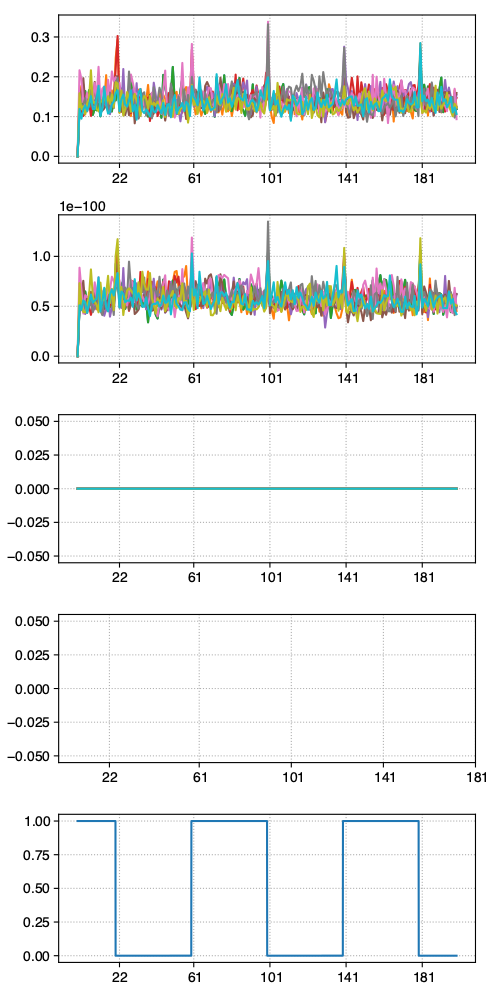
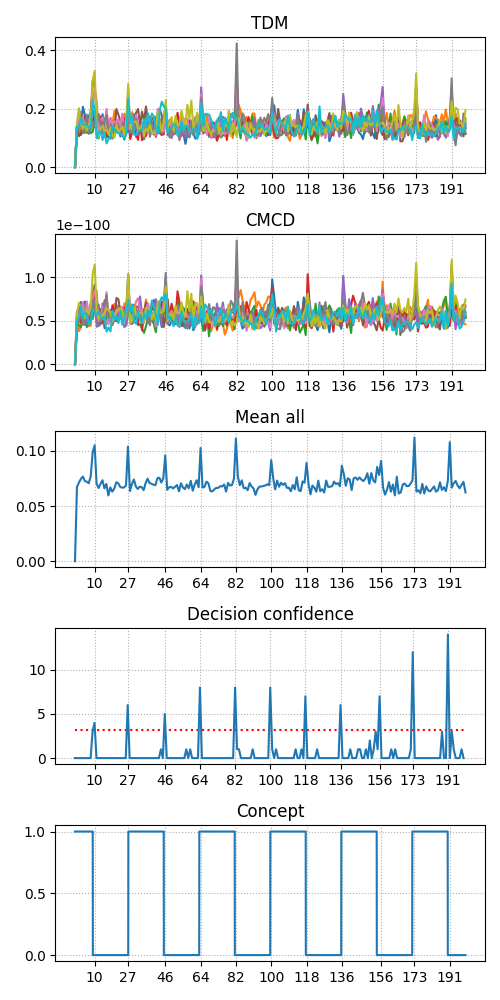
.

diff --git a/methods/ESDDM.py b/methods/ESDDM.py
@@ -1,7 +1,7 @@
 import numpy as np
 from sklearn.base import BaseEstimator, ClassifierMixin
 from sklearn.neighbors import KernelDensity
-
+from scipy.stats import hmean
 
 _SQRT2 = np.sqrt(2)
 
@@ -14,40 +14,43 @@ class ESDDM(BaseEstimator, ClassifierMixin):
         self.random_state = random_state
         self.random = np.random.RandomState(self.random_state)
 
-        self.niewiem = []
         self.count = 0
+        self.confidence=[]
+
+        self.drf_level = np.sqrt(self.n_detectors)
 
     def feed(self, X, y, pred):
-        print('i')
-        self.count+=1
-        # Liczba cech
-        self.n_features = X.shape[1]
 
-        # Inicjalizacja kontenerow na dryfy, miary oraz kernele
+        self.count+=1
+
+        # Init: tabele, wielkość podprzestrzeni, losowanie podprzestrzenie
         if not hasattr(self, "drift"):
             self.drift = []
-            self.els_arr = []
+            self.all_elements = []
             self.base_kernels = []
 
-            [self.els_arr.append([])
-             for i in range(3*self.n_detectors)]
-            [self.base_kernels.append([])
-             for i in range(self.n_detectors)]
+            n_features = X.shape[1]
 
-            # Oneliner to die
-            self._subspace_size = self.subspace_size if isinstance(self.subspace_size, int) else np.ceil(np.sqrt(self.n_features)).astype(int)
-            self.subspaces = np.array([self.random.choice(list(range(self.n_features)),
-                                                        size=self._subspace_size,
+            [self.all_elements.append([]) for i in range(2*self.n_detectors)]
+            [self.base_kernels.append([]) for i in range(self.n_detectors)]
+
+            if self.subspace_size == 'auto':
+                self.subspace_size = np.ceil(np.sqrt(n_features)).astype(int)
+
+            self.subspaces = np.array([self.random.choice(list(range(n_features)),
+                                                        size=self.subspace_size,
                                                         replace=False)
                                        for _ in range(self.n_detectors)])
 
-            print(self.subspaces)
-
-        el_arr = []
-
-        # Zbior kerneli do podmiany za bazowe
+        # Zbiór kerneli dla chunka
         self.temp_kernels = []
+
+        # Zbiór na tdm, cmcd dla chunka
+        chunk_elements = []
+
+        # Dla kadej z podprzestrzeni 
         for sub_id, subspace in enumerate(self.subspaces):
+            
             samples = [
                 X[:,subspace],
                 X[:,subspace][y==0],
@@ -61,83 +64,51 @@ class ESDDM(BaseEstimator, ClassifierMixin):
                 [y]
             ]
 
-            self.kernels = [KernelDensity().fit(sample)
-                        for sample in samples]
-            self.temp_kernels.append(self.kernels)
+            kernels = [KernelDensity().fit(sample) for sample in samples]
+            self.temp_kernels.append(kernels)
 
             # Bazowe kernele dla każdego podzbioru cech tylko raz
             if len(self.base_kernels[sub_id]) == 0:
-                self.base_kernels[sub_id] = self.kernels
+                self.base_kernels[sub_id] = kernels
 
             self.cf_s = [[
                 np.exp(kernel.score_samples(source))
                 for kernel, source in zip(k, sources)]
-                    for k in (self.kernels, self.base_kernels[sub_id])]
+                    for k in (kernels, self.base_kernels[sub_id])]
 
             # Dzieła zebrane
             el1 = self._tdm(*self.cf_s)
             el2 = self._cmcd(*self.cf_s)
-            el3 = self._pd(*self.cf_s)
-            el3 = 0
-            el_arr.append([el1,el2,el3])
+            chunk_elements.append([el1,el2])
 
         # Zebranie wszystkiego do ciaglej listy
-        el_arr = np.squeeze(np.array(el_arr).reshape(1,-1)).tolist()
-
-
-
+        chunk_elements = np.squeeze(np.array(chunk_elements).reshape(1,-1)).tolist()
 
         # Integracja
-        if len(self.drift)>0:
+        if len(self.drift) > self.immobilizer:
 
+            # shape: detectors x (tdm, cmcd) x chunks
+            self.combined_elements = np.array(self.all_elements).reshape(self.n_detectors, 2, -1) 
 
-            last_drf = np.argwhere(np.array(self.drift)==2)
-            last_drf = last_drf[-1][0] if len(last_drf)>0 else 0
+            is_drift_arr = np.array([self._is_drift(el, hmean(self.combined_elements[:,el_idx%2,:], axis=0))
+                                        for el_idx, el in enumerate(chunk_elements)])
 
-            if len(self.els_arr[0]) - last_drf > self.immobilizer:
-                # Zmienna do życia
-                self.els_arr_plot = np.array(self.els_arr).reshape(self.n_detectors, 3, -1)
-                #print('a', self.els_arr_plot, self.els_arr_plot.shape)
-                # Po zmiennej
+            drf_cnt = np.sum(is_drift_arr)
+            self.confidence.append(drf_cnt)
 
-
-
-                #print('b', np.array(self.els_arr), np.array(self.els_arr).shape)
-                #exit()
-
-                #is_drift_arr = np.array([self._is_drift(el_i, els_i[last_drf:])
-                #                         for el_i, els_i in zip(el_arr,
-                #                                                self.els_arr)])
-                is_drift_arr = np.array([self._is_drift(el_i, np.mean(self.els_arr_plot[:,el_idx%3,:], axis=0))
-                                         for el_idx, (el_i, els_i) in enumerate(zip(el_arr,
-                                                                self.els_arr))])
-
-                print(is_drift_arr)
-
-                #exit()
-                dd = np.sum(is_drift_arr)
-
-                # TU JEST WYKRYCIE
-                if dd>np.sqrt(len(is_drift_arr)*2/3):
-                    self.drift.append(2)
-                    self.base_kernels = self.temp_kernels
-                    print('JEST')
-                    self.niewiem.append(self.count)
-                else:
-                    self.drift.append(0)
-                    print('NIE 1')
+            # Detekcja
+            if drf_cnt > self.drf_level:
+                self.drift.append(2)
+                self.base_kernels = self.temp_kernels
             else:
                 self.drift.append(0)
-                print('NIE 2')
         else:
             self.drift.append(0)
-            print('NIE 3')
-
-        for id, el in enumerate(el_arr):
-            self.els_arr[id].append(el)
-
-        # Zmienna do plotowania poszczegolnych, usrednionych miar
-        self.els_arr_plot = np.array(self.els_arr).reshape(self.n_detectors, 3, -1)
+            self.confidence.append(0)
+        
+        # Dodanie wyników z chunka do wszystkich
+        for id, el in enumerate(chunk_elements):
+            self.all_elements[id].append(el)
 
         return self
 
@@ -154,8 +125,3 @@ class ESDDM(BaseEstimator, ClassifierMixin):
         return np.sum([
             ((f_s[3] + c_s[3])/2) * .5 * np.sum(np.abs(f_s[1+i] - c_s[1+i]), axis=0) for i in range(2)
         ])
-
-    def _pd(self, f_s, c_s):
-        return np.sum((((c_s[0] + f_s[0])/2) * .5 * (np.sum([
-            ((f_s[3] * f_s[1+i]) / f_s[0]) - ((c_s[3] * c_s[1+i]) / c_s[0]) for i in range(2)
-        ]))), axis=0)

diff --git a/esddm_test.py b/esddm_test.py
@@ -7,58 +7,44 @@ from sklearn.naive_bayes import GaussianNB
 n_chunks = 200
 chunk_size = 250
 n_detectors = 10
-stream = sl.streams.StreamGenerator(n_drifts=5,
+stream = sl.streams.StreamGenerator(n_drifts=11,
                                     n_chunks=n_chunks,
                                     chunk_size=chunk_size,
-                                    n_features=20,
-                                    n_informative=20,
+                                    n_features=21,
+                                    n_informative=21,
                                     n_redundant=0,
                                     recurring=False,
                                     random_state=3578989345)
 
-clf = Meta(GaussianNB(), ESDDM(n_detectors=n_detectors, subspace_size=2))
-# clf = Meta(GaussianNB(), SDDM())
+clf = Meta(GaussianNB(), ESDDM(n_detectors=n_detectors, subspace_size=2, random_state=121222))
 eval = sl.evaluators.TestThenTrain(metrics=(sl.metrics.balanced_accuracy_score))
 eval.process(stream, clf)
 
-#els1 = np.array(clf.detector.els_arr_plot[0])
-#els2 = np.array(clf.detector.els_arr_plot[1])
-#els3 = np.array(clf.detector.els_arr_plot[2])
 drifts = np.argwhere(np.array(clf.detector.drift) == 2)
-
-#rgb = np.array([els1, np.squeeze(els2), els3])
-#rgb -= np.min(rgb, axis=1)[:,np.newaxis]
-#rgb /= np.max(rgb, axis=1)[:,np.newaxis]
+elements = clf.detector.combined_elements
+elements_all = np.array(clf.detector.all_elements)
 
 fig, ax = plt.subplots(5, 1, figsize=(5,10))
-
-#ax[0].plot(els1[5:], c="r")
-#ax[0].plot(clf.detector.els_arr[0])
-
-print(clf.detector.els_arr_plot, clf.detector.els_arr_plot.shape)
-
-eee = clf.detector.els_arr_plot
 for i in range(n_detectors):
-    cymbal = []
-    for j in range(3):
-        ax[j].plot(eee[i,j,:])
-        cymbal.append(eee[i,j,:])
+    for j in range(2):
+        ax[j].plot(elements[i,j,:])
 
-    for z in range(3):
-        cymbal[z] -= np.min(cymbal[z])
-        cymbal[z] /= np.max(cymbal[z])
+ax[0].set_title("TDM")
+ax[1].set_title("CMCD")
 
-    ax[3].plot(np.mean(np.array(cymbal), axis=0))
+ax[2].plot(np.mean(elements_all, axis=0))
+ax[2].set_title("Mean all")
 
+ax[3].plot(clf.detector.confidence)
+ax[3].hlines(clf.detector.drf_level, 0, n_chunks, ls=":", color='r')
+ax[3].set_title("Decision confidence")
 
-#ax[1].plot(els2[5:], c="g")
-#ax[2].plot(els3[5:], c="b")
-#ax[3].imshow(np.array([rgb.T]), aspect=len(els1)/2)
 ax[4].plot(np.linspace(0, stream.n_chunks-1, len(stream.concept_probabilities)),
            stream.concept_probabilities)
+ax[4].set_title("Concept")
+
 for i in range(5):
-    ax[i].set_xticks(clf.detector.niewiem)
-    #ax[i].set_xticks(drifts[1:])
+    ax[i].set_xticks(drifts)
     ax[i].grid(ls=":")
 
 plt.tight_layout()
